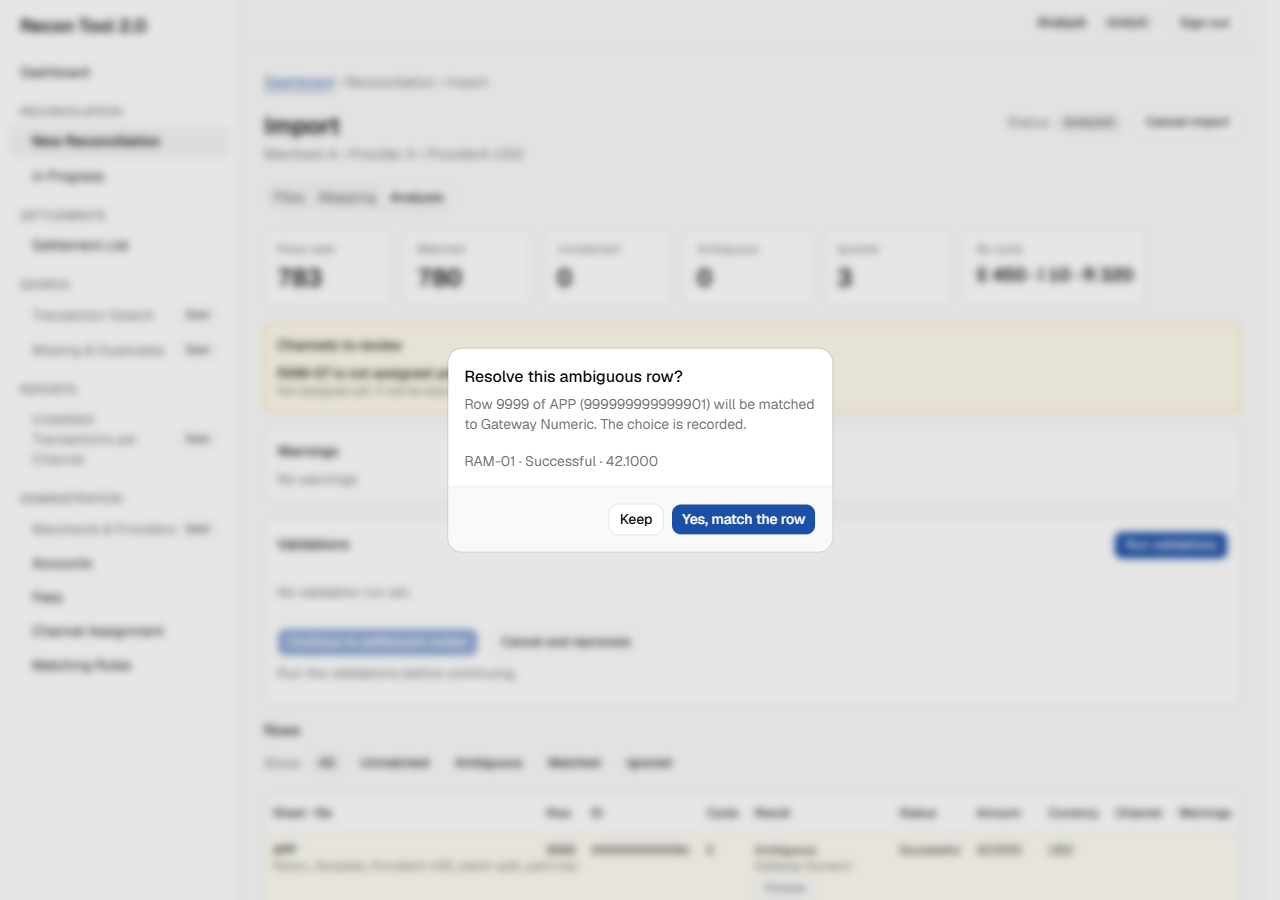
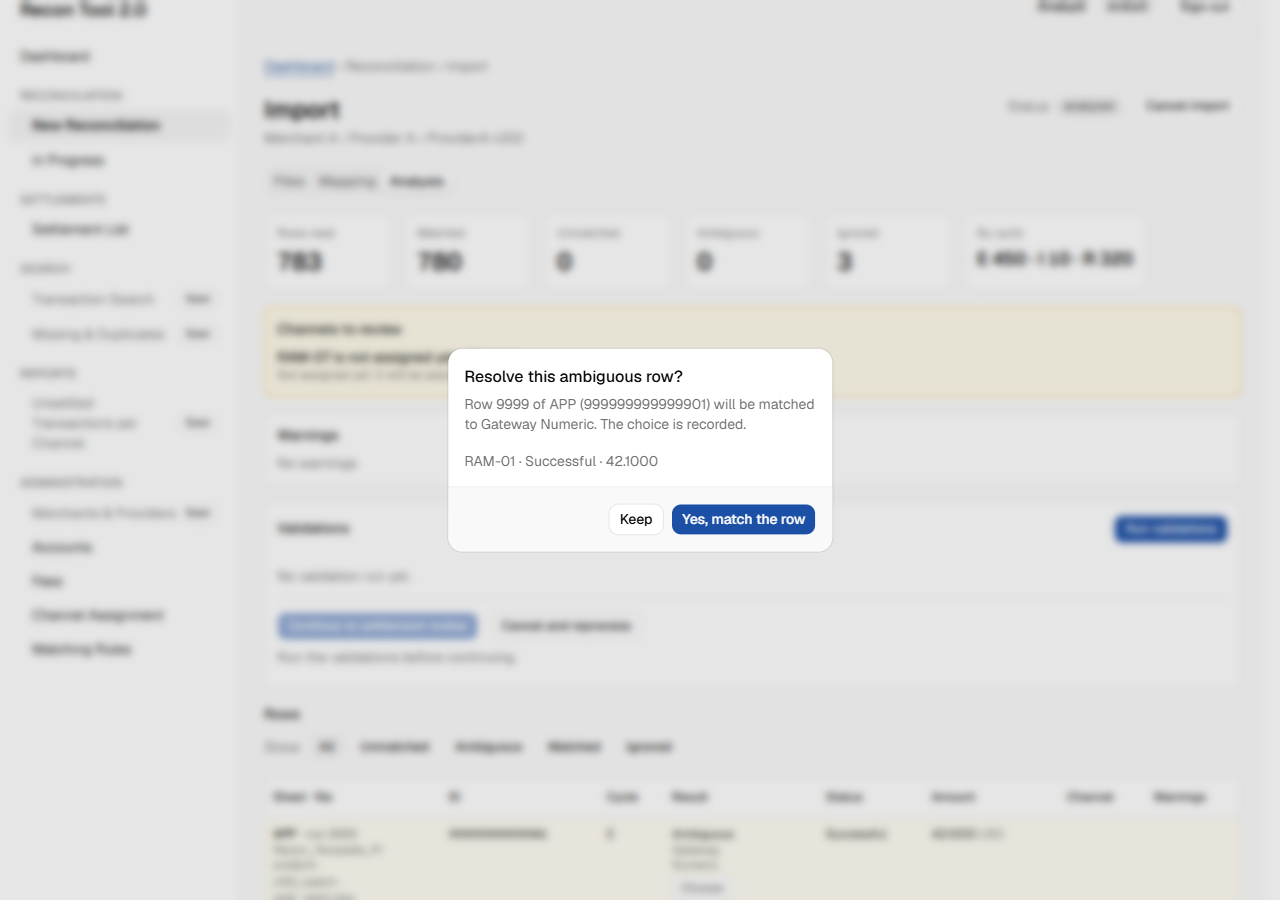
docs(web): capturas de web-ambiguous-rows a 1280 y 1024 px (#132)
Las cuatro pantallas a 1280 px y con sufijo -1024 a 1024 px. La tabla de filas
deja 41 px libres en su tarjeta a 1024 px en las cuatro, con la fila con la hoja
y el importe con su moneda.

diff --git a/docs/wireframes/README.md b/docs/wireframes/README.md
@@ -94,6 +94,6 @@ El resto es de la Entrega 3 o roadmap: Merchants & Providers y Account Detail (t
 
 **La fila ambigua es sintética.** El seed no produce ambiguas, así que el script intercepta solo `GET rows` (`page.route`) y antepone una fila con un ID y transacciones que no existen en el seed. Lleva una candidata en `Gateway Numeric` y otra de otro merchant en `Gateway Shared`, un gateway que el seed no tiene. El import, la corrida y la revisión son reales; por eso el contador `Ambiguous` marca `0`. El diálogo se cierra siempre con **Keep**, nunca se confirma.
 
-**La tabla de filas cabe a 1024 px (#132).** El resultado con su motivo, las candidatas, las advertencias y el archivo se parten en líneas dentro de su columna; el ID y las cifras nunca. El script mide la tabla también antes de inyectar la fila sintética, y termina con error si la página, una tabla (la de filas incluida) o un diálogo desborda a 1280 o 1024 px. Al terminar cancela su import con motivo, así que se puede repetir sin sembrar.
+**La tabla de filas cabe a 1024 px (#132, `web-rows-table-compact`).** El número de fila va con la hoja (`APP · row 2`) y el importe con su moneda en la columna **Amount** (`42.1000 USD`). El resultado con su motivo, las candidatas, las advertencias y el archivo se parten en líneas dentro de su columna, de ancho fijo; el ID y las cifras nunca. Medido al regenerarlas: la tabla deja 41 px libres en su tarjeta a 1024 px en las cuatro pantallas (265 a 1280). El script mide la tabla también antes de inyectar la fila sintética, y termina con error si la página, una tabla (la de filas incluida) o un diálogo desborda a 1280 o 1024 px. Al terminar cancela su import con motivo, así que se puede repetir sin sembrar.
 
 Tras `ui-polish` se regeneraron las tres carpetas con los mismos scripts (lo que quedó fuera de su alcance está en #85, #86 y #87): tarjetas con sombra, colores de estado, cabecera de Validations con `Overall result` y la tabla de rangos en su tarjeta, y la columna **Date range** de `Totals by type` en Settlement Review y Summary en lugar de la tabla `Date ranges of this batch`. `settlements-browse` mide además la tarjeta del Login (relleno, borde del tema y sombra) sin capturarla.

diff --git a/openspec/changes/web-rows-table-compact/tasks.md b/openspec/changes/web-rows-table-compact/tasks.md
@@ -22,12 +22,12 @@ En la rama `fix/web-rows-table-1024` (#132), con PR hacia `feature/entrega-3-MVP
 
 ## 3. Capturas y margen
 
-- [ ] 3.1 Comprobar que `e2e/screenshots/web-ambiguous-rows.ts` sigue leyendo solo la hoja de la primera celda, y ajustarlo si no. Verificar con `pnpm --filter e2e typecheck`
-- [ ] 3.2 Con turno de base de la persona (`pnpm db:up`, `pnpm db:seed` y `pnpm dev` levantados por ella), ejecutar `pnpm screenshots:web-ambiguous-rows`. Verificar:
+- [x] 3.1 Comprobar que `e2e/screenshots/web-ambiguous-rows.ts` sigue leyendo solo la hoja de la primera celda, y ajustarlo si no. Verificar con `pnpm --filter e2e typecheck`
+- [x] 3.2 Con turno de base de la persona (`pnpm db:up`, `pnpm db:seed` y `pnpm dev` levantados por ella), ejecutar `pnpm screenshots:web-ambiguous-rows`. Verificar:
   - que todas las medidas dicen `fits`;
   - que hay al menos 20 px de margen a 1024 px en las cuatro pantallas, con la medida temporal de D2 (sin commit);
   - las ocho capturas, mirándolas una a una.
-- [ ] 3.3 Actualizar `docs/wireframes/README.md` (la fila con la hoja, la columna **Amount**) y anotar el margen medido. Commit: `docs(web): capturas de web-ambiguous-rows a 1280 y 1024 px (#132)`
+- [x] 3.3 Actualizar `docs/wireframes/README.md` (la fila con la hoja, la columna **Amount**) y anotar el margen medido. Commit: `docs(web): capturas de web-ambiguous-rows a 1280 y 1024 px (#132)`
 
 ## 4. PR
 
